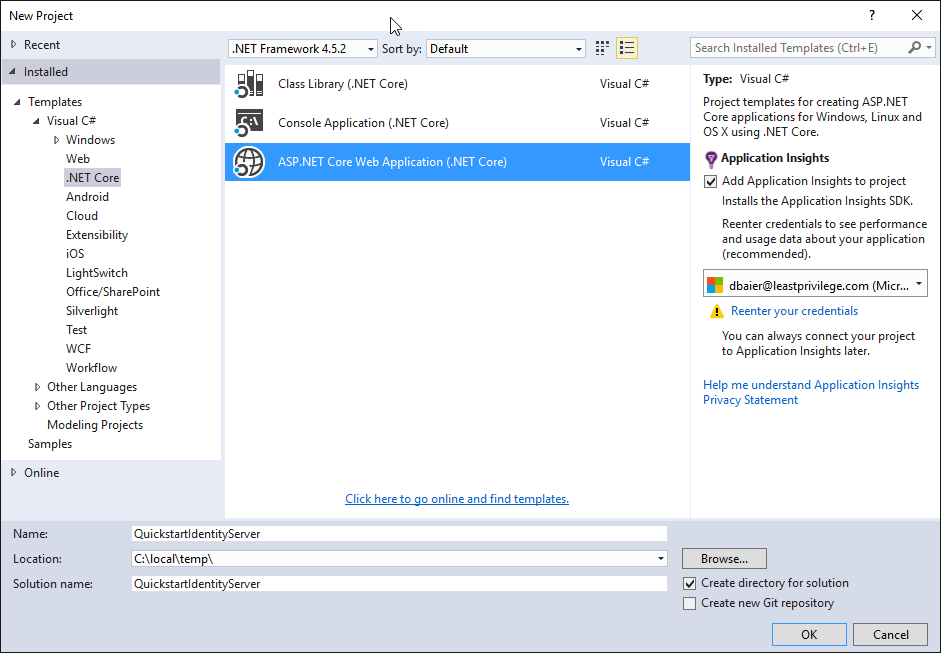
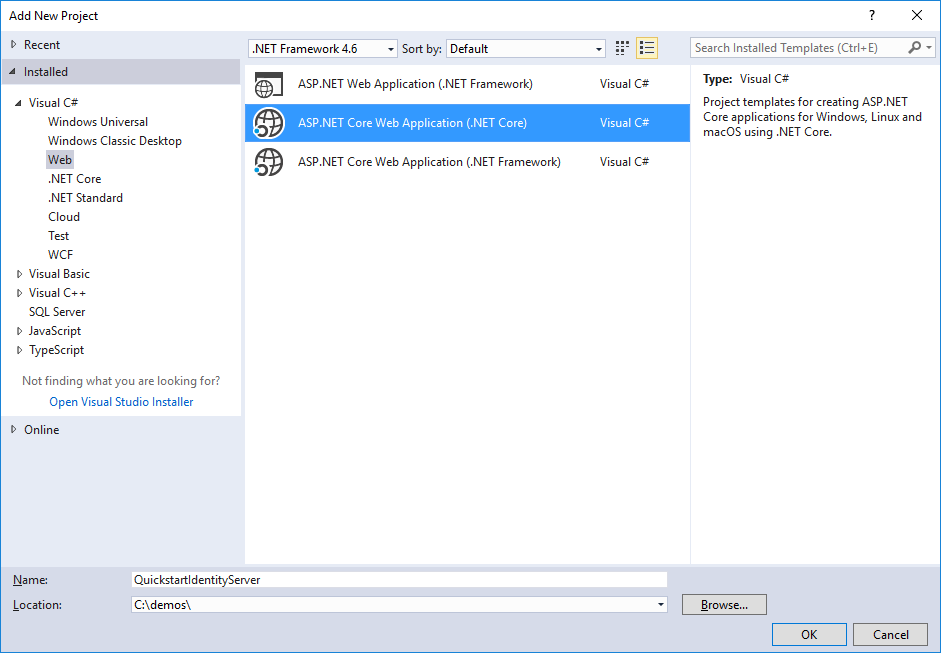
update quickstarts for vs2017 changes

diff --git a/docs/quickstarts/8_entity_framework.rst b/docs/quickstarts/8_entity_framework.rst
@@ -13,9 +13,9 @@ The first is the configuration data (resources and clients).
 The second is operational data that IdentityServer produces as it's being used.
 These stores are modeled with interfaces, and we provide an EF implementation of these interfaces in the `IdentityServer4.EntityFramework` Nuget package.
 
-Get started by adding a reference to the `IdentityServer4.EntityFramework` Nuget package in `project.json` in the IdentityServer project:: 
+Get started by adding a reference to the `IdentityServer4.EntityFramework` Nuget package the IdentityServer project (use at least version "1.0.1").
 
-    "IdentityServer4.EntityFramework": "1.0.0"
+.. image:: images/8_nuget.png
 
 Adding SqlServer
 ^^^^^^^^^^^^^^^^
@@ -23,15 +23,37 @@ Adding SqlServer
 Given EF's flexibility, you can then use any EF-supported database.
 For this quickstart we will use the LocalDb version of SqlServer that comes with Visual Studio.
 
-To add SqlServer, we need several more dependencies. 
-In the `"dependencies"` section in `project.json` add these packages::
+To add SqlServer, we need several more NuGet packages.  
 
-  "Microsoft.EntityFrameworkCore.SqlServer": "1.1.0",
-  "Microsoft.EntityFrameworkCore.Tools": "1.0.0-preview2-final"
+Add `Microsoft.EntityFrameworkCore.SqlServer`:
 
-And then in the `"tools"` section add this configuration::
+.. image:: images/8_nuget_ef_sqlserver.png
 
-    "Microsoft.EntityFrameworkCore.Tools": "1.0.0-preview2-final"
+And `Microsoft.EntityFrameworkCore.Tools`:
+
+.. image:: images/8_nuget_ef_tools.png
+
+Next, we need to add some command line tooling (more details `here <https://docs.microsoft.com/en-us/ef/core/miscellaneous/cli/dotnet>`_).
+Unfortunately this must be done by hand-editing your `.csproj` file.
+To edit the `.csproj` by right-click the project and select "Edit projectname.csproj":
+
+.. image:: images/8_edit_csproj.png
+
+And then add the below snippet before the end `</Project>` element::
+
+    <ItemGroup>
+        <DotNetCliToolReference Include="Microsoft.EntityFrameworkCore.Tools.DotNet" Version="1.0.0" />
+    </ItemGroup>
+
+It should look something like this:
+
+.. image:: images/8_csproj.png
+
+Save and close the file. 
+To test that you have the tools properly installed, you can open a command shell in the same directory as the project and run `dotnet ef`.
+It should look like this:
+
+.. image:: images/8_dotnet_ef_command_line.png
 
 Configuring the stores
 ^^^^^^^^^^^^^^^^^^^^^^
@@ -46,7 +68,7 @@ We will replace them with this code::
   {
       services.AddMvc();
 
-      var connectionString = @"server=(localdb)\mssqllocaldb;database=IdentityServer4.Quickstart;trusted_connection=yes";
+      var connectionString = @"server=(localdb)\mssqllocaldb;database=IdentityServer4.Quickstart.EntityFramework;trusted_connection=yes";
       var migrationsAssembly = typeof(Startup).GetTypeInfo().Assembly.GetName().Name;
             
       // configure identity server with in-memory users, but EF stores for clients and resources

diff --git a/docs/quickstarts/0_overview.rst b/docs/quickstarts/0_overview.rst
@@ -33,16 +33,15 @@ Then select the "Empty Web" option.
 
 .. image:: images/0_empty_web.png
 
-.. note:: IdentityServer currently only targets ASP.NET Core 1.1, so if you are starting with an ASP.NET Core 1.0 project then you can follow `this guide for updating to ASP.NET Core 1.1 <https://blogs.msdn.microsoft.com/webdev/2016/11/16/announcing-asp-net-core-1-1/>`_.
+.. note:: IdentityServer currently only targets ASP.NET Core 1.1.
 
-Next, add the IdentityServer4 nuget package by adding the following line to your project.json under the ´dependencies´ property::
+Next, add the `IdentityServer4` nuget package:
 
-    "IdentityServer4": "1.0.0"
+.. image:: images/0_nuget.png
     
 Alternatively you can use Package Manager Console to add the dependency by running the following command:
 
     "Install-Package IdentityServer4"
-
 
 IdentityServer uses the usual pattern to configure and add services to an ASP.NET Core host.
 In ``ConfigureServices`` the required services are configured and added to the DI system. 
@@ -93,7 +92,7 @@ You also don't need to launch a browser every time you start IdentityServer - yo
 .. image:: images/0_launch_profile.png
 
 When you switch to self-hosting, the web server port defaults to 5000. 
-You can configure this in ``Program.cs`` - 
+You can configure this either in the launch profile dialog above, or programmatically in ``Program.cs`` - 
 we use the following configuration for the IdentityServer host in the quickstarts::
 
     public class Program

diff --git a/docs/quickstarts/6_aspnet_identity.rst b/docs/quickstarts/6_aspnet_identity.rst
@@ -34,8 +34,6 @@ Finally, your new project dialog should look something like this. Once it does, 
 
 .. image:: images/6_web_app_template_with_aspnet_identity.png
 
-.. note:: Don't forget to update your project to ASP.NET Core 1.1. You can follow `this guide for updating to ASP.NET Core 1.1 <https://blogs.msdn.microsoft.com/webdev/2016/11/16/announcing-asp-net-core-1-1/>`_.
-
 Modify hosting
 ^^^^^^^^^^^^^^^
 
@@ -45,9 +43,10 @@ This is important so the existing clients and api projects will continue to work
 Add IdentityServer packages
 ^^^^^^^^^^^^^^^^^^^^^^^^^^^
 
-Add the ``IdentityServer4.AspNetIdentity`` package to `project.json`::
+Add the ``IdentityServer4.AspNetIdentity`` NuGet package (at least version "1.0.1").
+This depends on the ``IdentityServer4`` package, so that's automatically added as a transitive dependency.
 
-    "IdentityServer4.AspNetIdentity": "1.0.0"
+.. image:: images/6_nuget.png
 
 
 Scopes and Clients Configuration
@@ -73,7 +72,7 @@ We've not yet copied over the consent code from the prior IdentityServer project
         },
 
         RedirectUris           = { "http://localhost:5002/signin-oidc" },
-        PostLogoutRedirectUris = { "http://localhost:5002" },
+        PostLogoutRedirectUris = { "http://localhost:5002/signout-callback-oidc" },
 
         AllowedScopes =
         {

diff --git a/docs/quickstarts/4_external_authentication.rst b/docs/quickstarts/4_external_authentication.rst
@@ -18,10 +18,10 @@ local IdentityServer by adding the */signin-google* path to your base-address (e
 If you are running on port 5000 - you can simply use the client id/secret from the code snippet
 below, since this is pre-registered by us.
 
-Add the Google and cookie authentication package to your project.json::
+Add the Google and cookie authentication NuGet packages to your project.json:
 
-    "Microsoft.AspNetCore.Authentication.Cookies": "1.0.0",
-    "Microsoft.AspNetCore.Authentication.Google": "1.0.0"
+* `Microsoft.AspNetCore.Authentication.Cookies`
+* `Microsoft.AspNetCore.Authentication.Google`
 
 Next we need to add the middleware to the pipeline.
 Order is important, the additional authentication middleware must run **after**
@@ -54,9 +54,9 @@ Further experiments
 You can add an additional external provider.
 We have a cloud-hosted demo version of IdentityServer4 which you can integrate using OpenID Connect.
 
-First add the OpenID Connect package to project.json::
+First add the `Microsoft.AspNetCore.Authentication.OpenIdConnect` NuGet package to your project.
 
-    "Microsoft.AspNetCore.Authentication.OpenIdConnect": "1.0.0"
+.. image:: images/4_nuget_oidc.png
 
 Next add the middleware::
 

diff --git a/docs/quickstarts/1_client_credentials.rst b/docs/quickstarts/1_client_credentials.rst
@@ -113,9 +113,9 @@ The job of that middleware is:
 * validate the incoming token to make sure it is coming from a trusted issuer
 * validate that the token is valid to be used with this api (aka scope)
 
-Add the following package to your project.json::
+Add the `IdentityServer4.AccessTokenValidation` NuGet package to your project.
 
-    "IdentityServer4.AccessTokenValidation": "1.0.1"
+.. image:: images/1_nuget_accesstokenvalidation.png
 
 You also need to add the middleware to your pipeline. 
 It must be added **before** MVC, e.g.::
@@ -150,9 +150,9 @@ The token endpoint at IdentityServer implements the OAuth 2.0 protocol, and you 
 raw HTTP to access it. However, we have a client library called IdentityModel, that
 encapsulates the protocol interaction in an easy to use API.
 
-Add IdentityModel to your project.json::
+Add the `IdentityModel` NuGet package to your application.
 
-    "IdentityModel": "2.0.0"
+.. image:: images/1_nuget_identitymodel.png
 
 IdentityModel includes a client library to use with the discovery endpoint.
 This way you only need to know the base-address of IdentityServer - the actual

diff --git a/docs/quickstarts/3_interactive_login.rst b/docs/quickstarts/3_interactive_login.rst
@@ -40,10 +40,10 @@ Use the ASP.NET Core "Web Application" template for that.
 Configure the application to use port 5002 (see the overview part for instructions on how to do that).
 
 To add support for OpenID Connect authentication to the MVC application, add the following
-packages to project.json::
+NuGet packages:
 
-    "Microsoft.AspNetCore.Authentication.Cookies": "1.0.0",
-    "Microsoft.AspNetCore.Authentication.OpenIdConnect": "1.0.0"
+* `Microsoft.AspNetCore.Authentication.Cookies`
+* `Microsoft.AspNetCore.Authentication.OpenIdConnect`
 
 Next add both middlewares to your pipeline - the cookies one is simple::
 
@@ -150,7 +150,7 @@ Add the following to your clients configuration::
                 RedirectUris = { "http://localhost:5002/signin-oidc" },
 
                 // where to redirect to after logout
-                PostLogoutRedirectUris = { "http://localhost:5002" },
+                PostLogoutRedirectUris = { "http://localhost:5002/signout-callback-oidc" },
 
                 AllowedScopes = new List<string>
                 {

diff --git a/docs/quickstarts/7_javascript_client.rst b/docs/quickstarts/7_javascript_client.rst
@@ -32,10 +32,9 @@ Add the static file middleware
 
 Given that this project is designed to mainly run client-side, we need ASP.NET Core to serve up the static HTML and JavaScript files that will make up our application.
 The static file middleware is designed to do this.
-Add the NuGet package ``Microsoft.AspNetCore.StaticFiles`` to `project.json`::
+Add the NuGet package ``Microsoft.AspNetCore.StaticFiles``.
 
-    "Microsoft.AspNetCore.StaticFiles": "1.0.0"
-
+.. image:: images/7_nuget_static_files.png
 
 Register the static file middleware
 ^^^^^^^^^^^^^^^^^^^^^^^^^^^^^^^^^^^
@@ -257,9 +256,9 @@ This will allow Ajax calls to be made from `http://localhost:5003` to `http://lo
 
 **CORS NuGet Package**
 
-Add the ``Microsoft.AspNetCore.Cors`` NuGet package to `project.json` in the web API project::
+Add the ``Microsoft.AspNetCore.Cors`` NuGet package.
 
-    "Microsoft.AspNetCore.Cors": "1.0.0"
+.. image:: images/7_nuget_cors.png
 
 **Configure CORS**
 

diff --git a/docs/quickstarts/5_hybrid_and_api_access.rst b/docs/quickstarts/5_hybrid_and_api_access.rst
@@ -40,7 +40,7 @@ this allows requesting refresh tokens for long lived API access::
         },
 
         RedirectUris           = { "http://localhost:5002/signin-oidc" },
-        PostLogoutRedirectUris = { "http://localhost:5002" },
+        PostLogoutRedirectUris = { "http://localhost:5002/signout-callback-oidc" },
 
         AllowedScopes = 
         {
